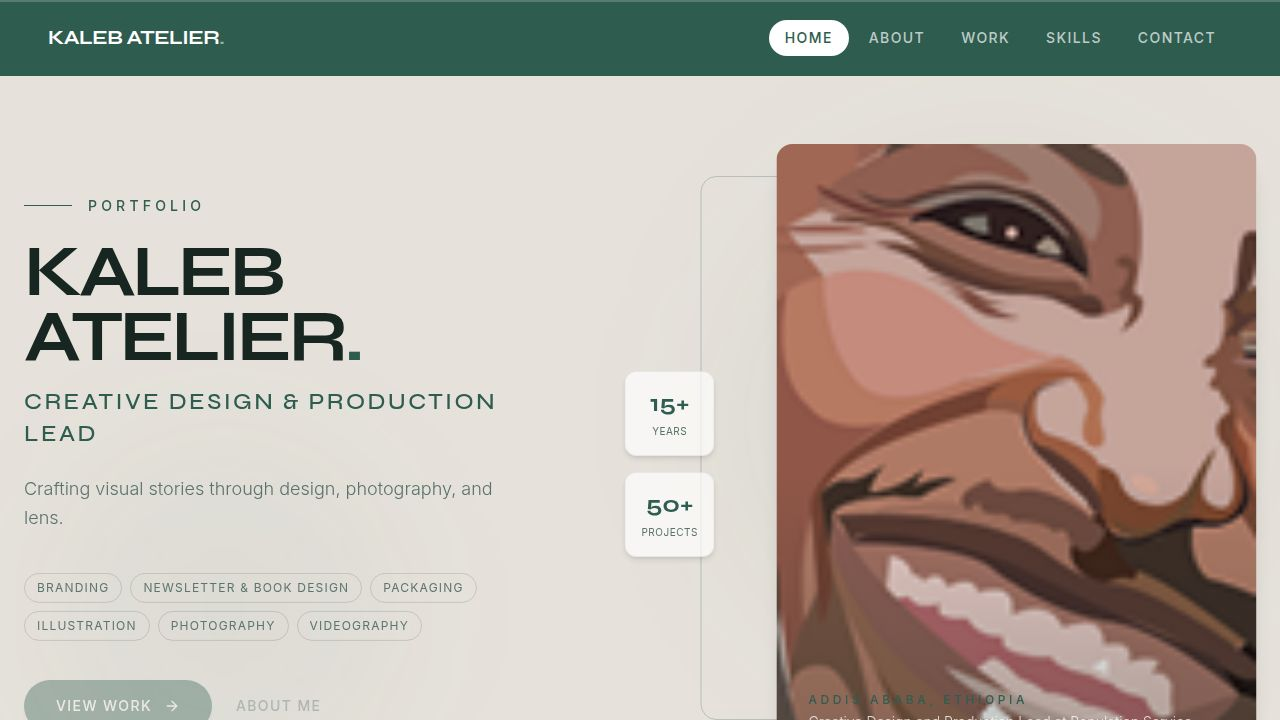
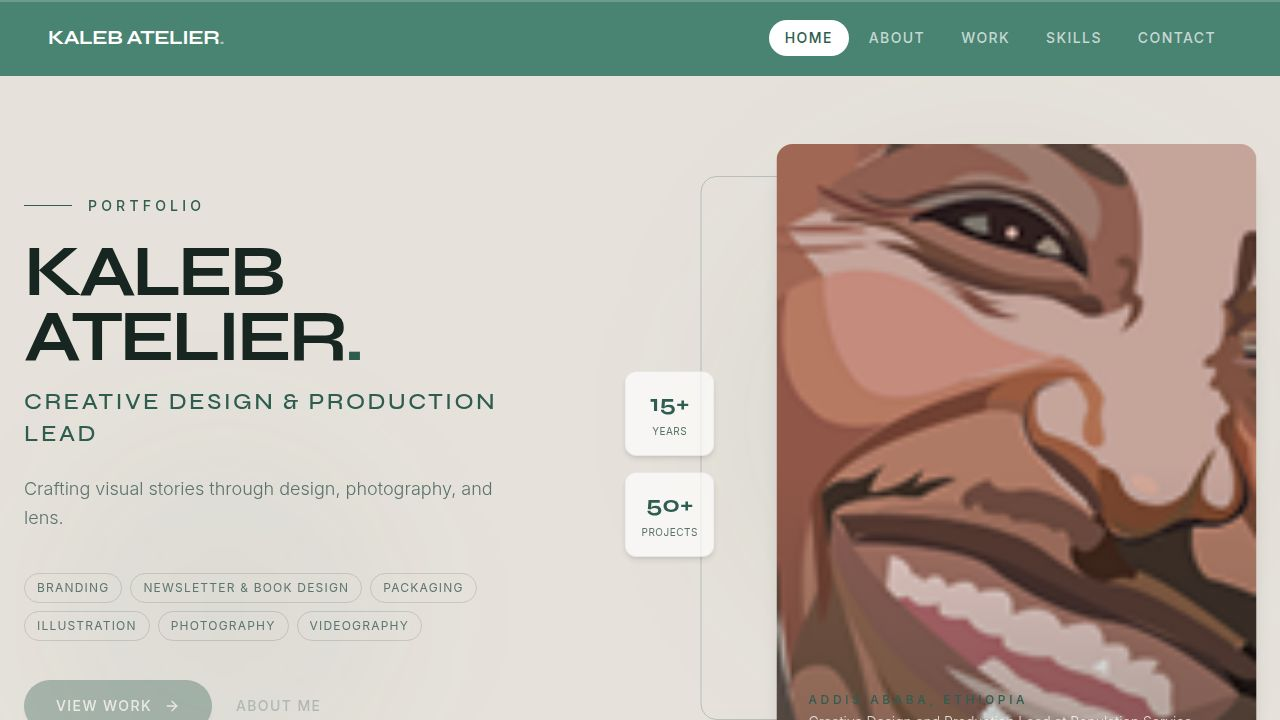
Update navbar color to a lighter shade of green
Modify the background color of the Navbar component from bg-primary to a specific lighter green HSL value.

Replit-Commit-Author: Agent
Replit-Commit-Session-Id: 8b7dc957-8f88-42ee-a6c7-f1df3da183c4
Replit-Commit-Checkpoint-Type: full_checkpoint
Replit-Commit-Event-Id: 79bd6136-0449-48c5-ac85-3f9b9ef596ee
Replit-Commit-Screenshot-Url: https://storage.googleapis.com/screenshot-production-us-central1/71992b33-9112-4885-b5d5-5e7bd07f8e96/8b7dc957-8f88-42ee-a6c7-f1df3da183c4/RmapNLf
Replit-Helium-Checkpoint-Created: true

Changed region(s): [[0.0, 0.0, 1.0, 0.1222]]

diff --git a/artifacts/portfolio/src/components/layout/Navbar.tsx b/artifacts/portfolio/src/components/layout/Navbar.tsx
@@ -38,7 +38,7 @@ export function Navbar({ activePage }: NavbarProps) {
   return (
     <header
       className={cn(
-        "fixed top-0 left-0 right-0 z-50 transition-all duration-300 bg-primary px-6 md:px-12",
+        "fixed top-0 left-0 right-0 z-50 transition-all duration-300 bg-[hsl(163,28%,40%)] px-6 md:px-12",
         scrolled ? "py-3 shadow-lg shadow-primary/20" : "py-5"
       )}
     >
